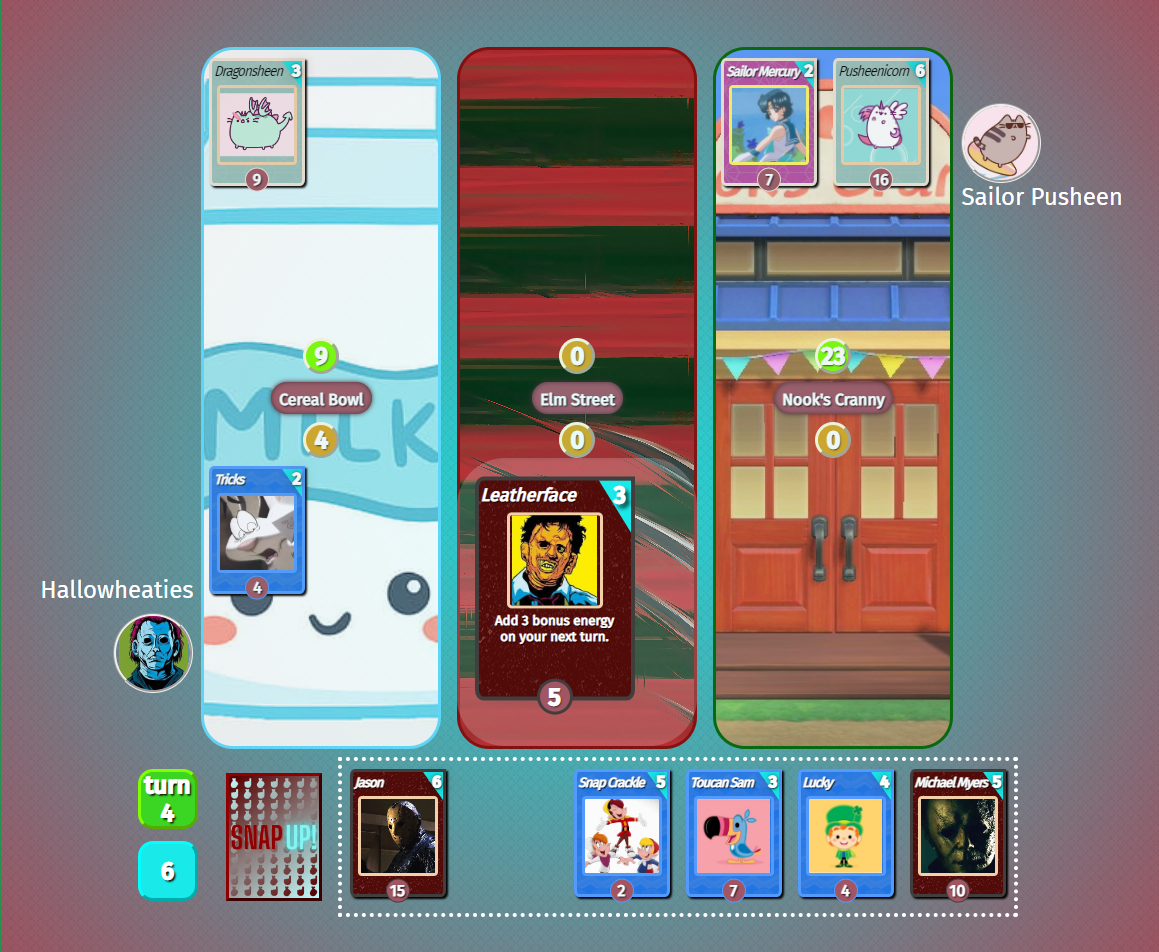
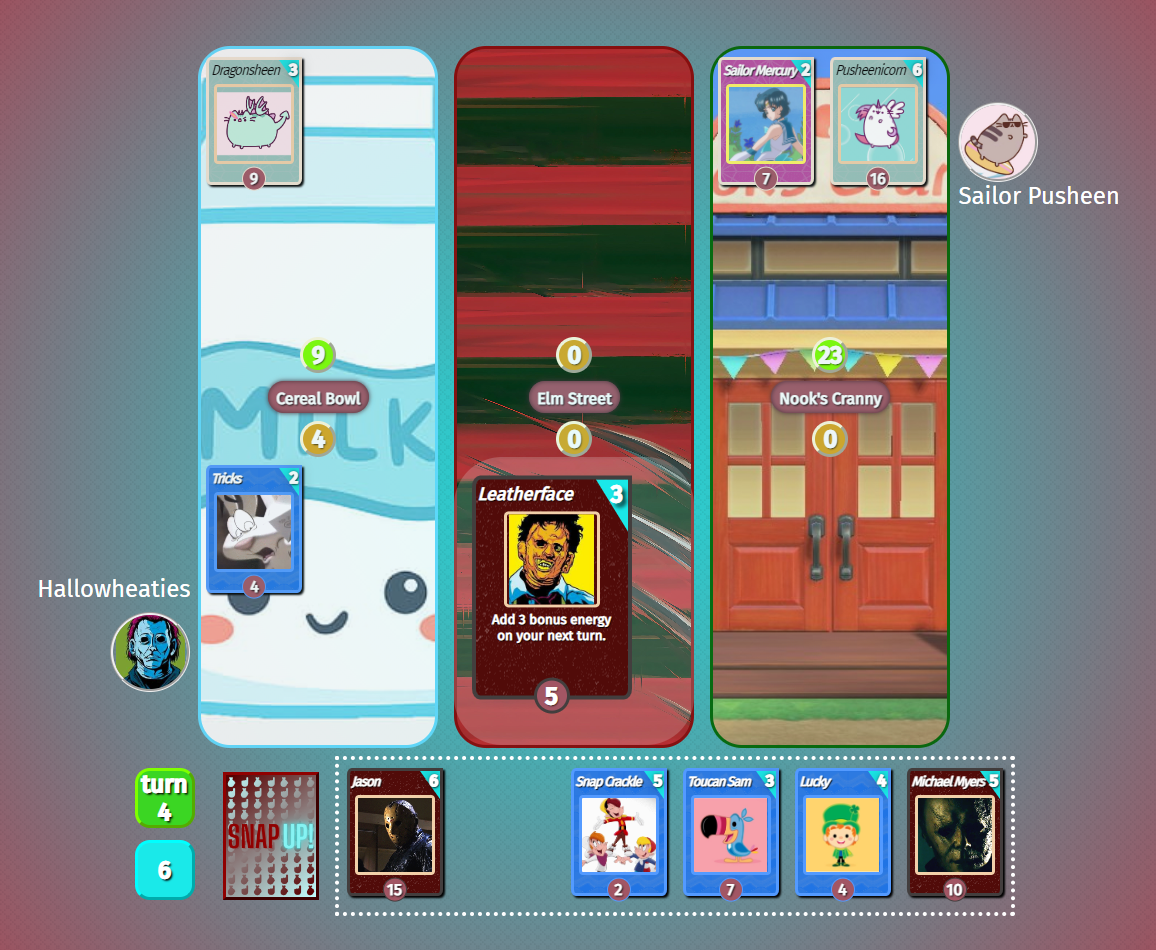
updated readme.md to reflect finished product features, dependencies, setup, retrimmed screenshots, removed dependencies that were no longer required

diff --git a/README.md b/README.md
@@ -1,16 +1,20 @@
-# Crackle-Pop
+# Snap-Up
 
-In the vein of _Marvel Snap_, **_Crackle-Pop_** is a **React**-based, two-player, online, digital card battle game. Whew.
+In the vein of _Marvel Snap_, **_Snap-Up_** is a **React**-based, two-player, online digital card battle game. Whew.
 
 Players are able to generate a **'play' deck** of cards to use (for a given match) by selecting from 2 of our pre-existing themed decks; the **'play' deck** will be a combination of cards from the 2 selected themed decks, shuffled randomly. This mix-n-match deck approach provides replayability and allows for varied strategy without needing to implement an entire card-by-card deck building approach, which is outside of the scope for this project.
 
-Each card depicts a character matching the theme of the deck they came from, with an **energy cost**⚡, **power level**💪 , and **special ability**✨(if the card has one) listed, along with some flavor text. Once both players have created a **'play' deck** to use, the game begins. Players are presented with a top-down view of the game-area, with 3 lanes they are able to play their cards onto (left, middle, right), each lane represented by a **location**🏔 card. No locations are visible at the start of the game, they are revealed one-by-one over the course of the first three turns. **Location** cards are randomized each game and have their own **special abilities** which impact any cards played into that lane.
+Each card depicts a character matching the theme of the deck they came from, with an **energy cost**⚡, **power level**💪 , and **special ability**✨(if the card has one) listed, along with some flavor text. Once both players have created a **'play' deck** to use, the game begins. Players are presented with a top-down view of the game-area, with 3 lanes they are able to play their cards onto (left, middle, right), each lane represented by a **location**🏔 card. Locations are randomized each game, and every deck has a signature **location** card associated with it - if you play a card onto its matching **location**, the card will receive a bonus +1 power.
 
-Matches last a total of 6 turns. At the start of each match, players begin with a hand of 3 drawn cards. At the start of each turn, players will draw an additional card, and can place one or more cards face-down onto a **location(s)** of their choice. The amount of cards they can play is determined by the player's **energy level** for that turn, and the **energy cost** of their available cards. Energy begins at 1 for turn 1, and increases by 1 for each subsequent turn. Each player's **power level** for a **location** is based on the combined total of any cards they have played there.
+Matches last a total of 6 turns. At the start of each match, players begin with a hand of 3 drawn cards. At the start of each turn, players will draw an additional card, and can place one or more cards face-down onto a **location(s)** of their choice. The amount of cards they can play is determined by the player's **energy level** for that turn (blue icon to the left of your hand), and the **energy cost** of their available cards (number in blue in the top right corner of the cards). Energy begins at 1 for turn 1, and increases by 1 for each subsequent turn. Each player's **power level** for a **location** is based on the combined total of any cards they have played there (each card's individual power can be seen at the bottom of the card).
 
 The concept of the game is to try and "win" at least 2 of the lanes by having a higher total **power level** than your opponent in those lanes.
 
-This app was built as the final project during the **_Lighthouse Labs Web Development Bootcamp_**. It was created primarily using **Create React App**, along with **Node.js** and **Express** connected to a **PostgreSQL** database.
+This app was built as the final project during the **_Lighthouse Labs Web Development Bootcamp_**. The front-end was built entirely with React, with additional libraries **React-Router-Dom**, **React-Transition-Group**, and **React-DND**, with **React-Bootstrap** and custom CSS for styling.
+
+Our back-end stack is **Express** along with **Socket.IO** to allow for multiplayer capability and real-time connectivity. **_Snap-Up_** is deployed on Railway (https://snap-up-app.up.railway.app/),try out for yourself or with a friend!
+
+**_Get Snapping!_**
 
 ## Screenshots
 
@@ -28,4 +32,22 @@ This app was built as the final project during the **_Lighthouse Labs Web Develo
 
 ## Setup
 
+1. Clone your own copy of this repo using the `<> Code` button, then copy the SSH link for use in terminal on your dev machine.
+2. Inside of the 'snap-up-app' folder in terminal, install the required dependencies with: `npm i`
+3. Inside of the server folder in terminal, install the required dependencies with: `npm i`
+4. Start the server with command `npm start` inside the server folder. Additionally, start the client inside of the snap-up-app folder with the same command `npm start`
+5. A browser window should now open with the app running inside; you can either copy the link into another browser tab to play locally, or send a friend the link below to play against them (just make sure you both choose the same room # to connect!):
+   https://snap-up-app.up.railway.app/
+
 ### Dependencies
+
+bootstrap: ^5.2.3,
+react: ^18.2.0,
+react-bootstrap: ^2.7.1,
+react-dnd: ^16.0.1,
+react-dnd-html5-backend: ^16.0.1,
+react-dom: ^18.2.0,
+react-router-dom: ^6.8.1,
+react-scripts: 5.0.1,
+react-transition-group: ^4.4.5,
+socket.io-client: ^4.6.0
